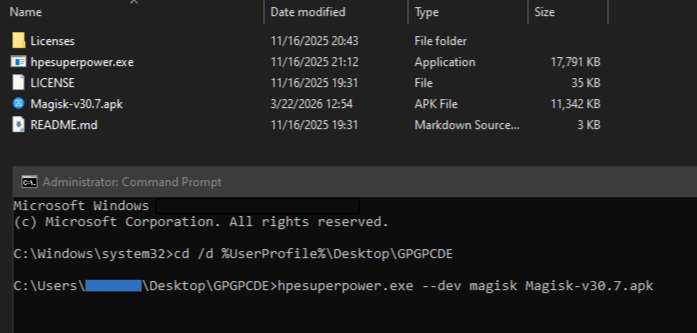
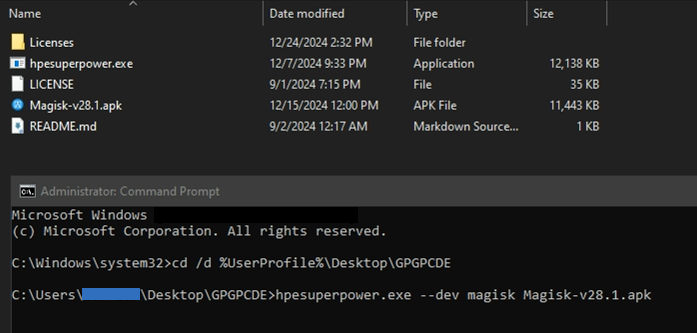
Revert: method 2

diff --git a/2/README.md b/2/README.md
@@ -1,6 +1,6 @@
 # Magisk on GPGPCDE: Method 2
 
[2 lines of base64/hex data omitted]
 
 Root & Install Magisk on GPGPCDE (Google Play Games on PC Developer Emulator).
 
@@ -51,7 +51,7 @@ Root & Install Magisk on GPGPCDE (Google Play Games on PC Developer Emulator).
 - [Google Play Games on PC Developer Emulator](https://developer.android.com/games/playgames/emulator) (GPGPCDE)
 - [Aow Tools](https://apps.microsoft.com/detail/9nxm6552h2ql?hl=en-US) (Free Trial)
 - [hpesuperpower](https://github.com/chsbuffer/hpesuperpower?tab=readme-ov-file)
-- [Magisk](https://github.com/topjohnwu/Magisk?tab=readme-ov-file)
+- [Magisk v28.1](https://github.com/topjohnwu/Magisk/releases/tag/v28.1)
 - [7-Zip](https://7-zip.org/)
 
 
@@ -89,7 +89,7 @@ Root & Install Magisk on GPGPCDE (Google Play Games on PC Developer Emulator).
 
 ### 4. Magisk
 
-1. Download the **Magisk** app.
+1. Download **Magisk v28.1**.
 2. Open **Aow Tools** > `Install` > You can drag and drop APK files to install Android apps.
 3. Install **Magisk**.
 4. Open **GPGPCDE**, You will see **Magisk** installed in the app drawer.
@@ -111,7 +111,7 @@ Root & Install Magisk on GPGPCDE (Google Play Games on PC Developer Emulator).
 5. Navigate to the **GPGPCDE** folder, type `cd /d %UserProfile%\Desktop\GPGPCDE` > **Enter**
 6. Root **GPGPCDE** with the command `hpesuperpower.exe --dev magisk <magisk_apk_file>` > **Enter**
 
-    - e.g.: `hpesuperpower.exe --dev magisk Magisk-v30.7.apk`
+    - e.g.: `hpesuperpower.exe --dev magisk Magisk-v28.1.apk`
     - More about **hpesuperpower** Command Line , [read here](https://github.com/chsbuffer/hpesuperpower/releases/tag/1.1.0).
 
       ![GPGPCDE-cmd-1](./images/GPGPCDE-cmd-1.png)
